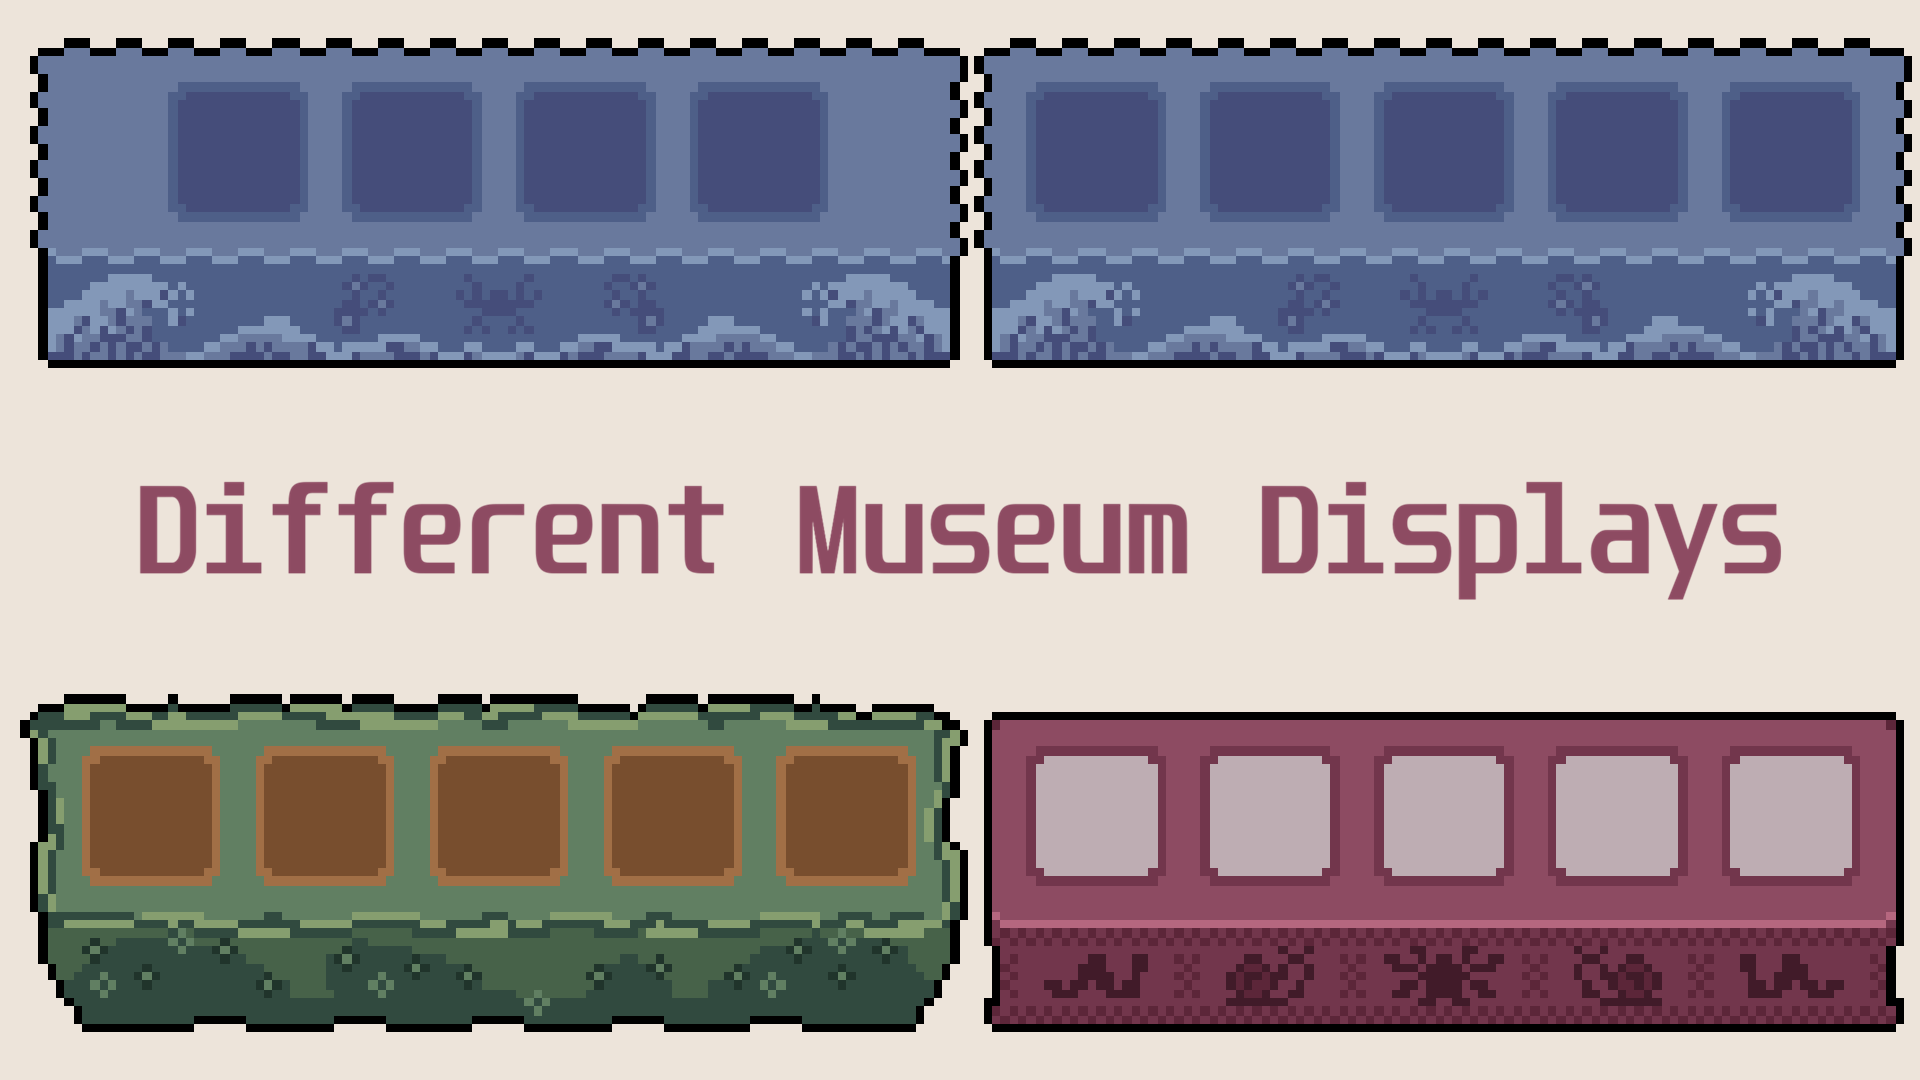
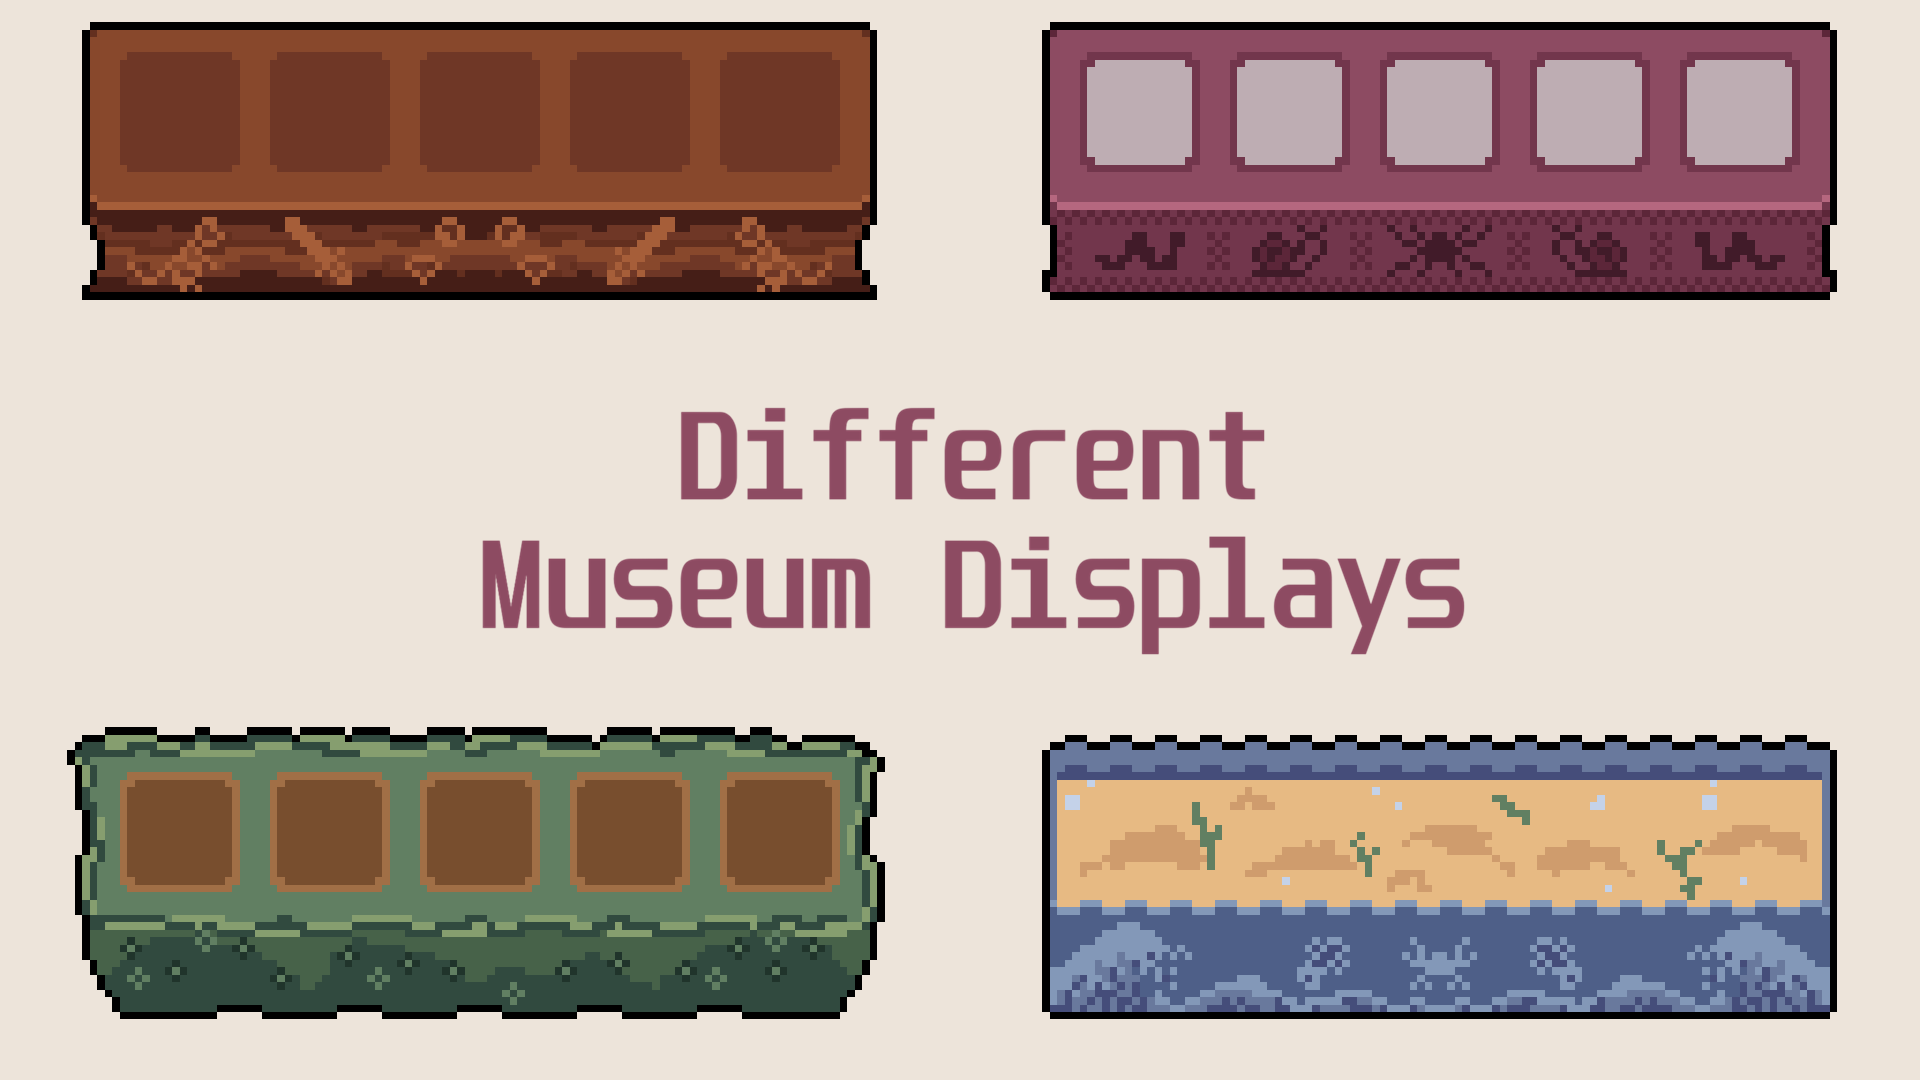
1.1.0 Release

diff --git a/README.md b/README.md
@@ -12,3 +12,7 @@ Thought it would be nice to have different sets of museum displays instead of th
 
 1. Unzip file in mods folder `C:\Program Files (x86)\Steam\steamapps\common\Fields of Mistria\mods`
 2. Install using [MOMI](https://github.com/Garethp/Mods-of-Mistria-Installer) (>= 0.15 ver required)
+
+## Comparison
+
+![](./images/comparions.png)
